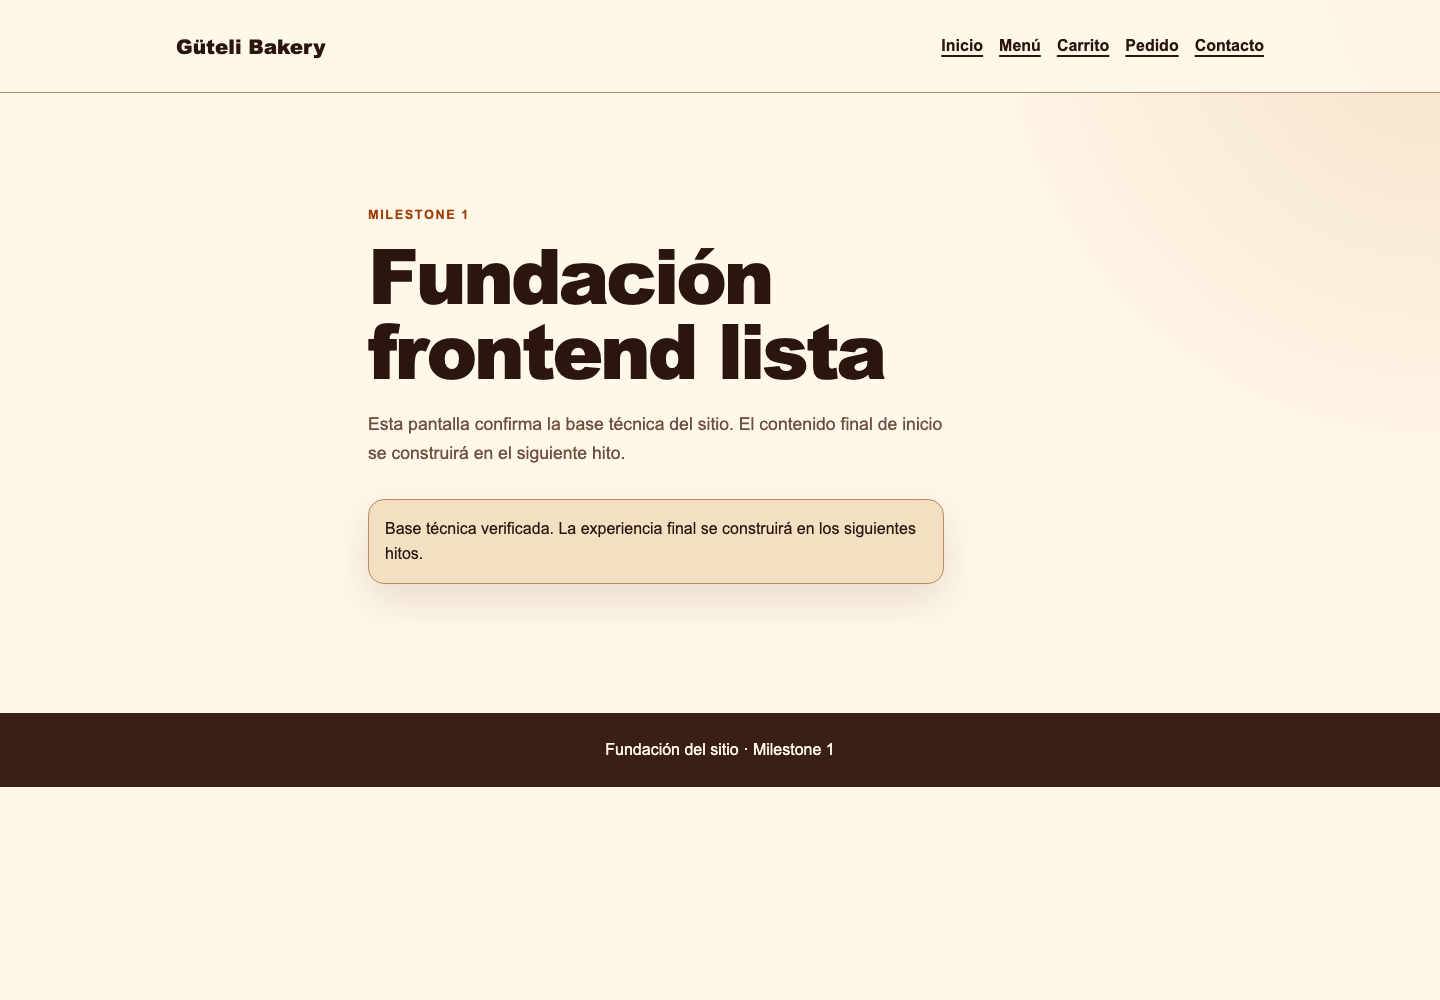
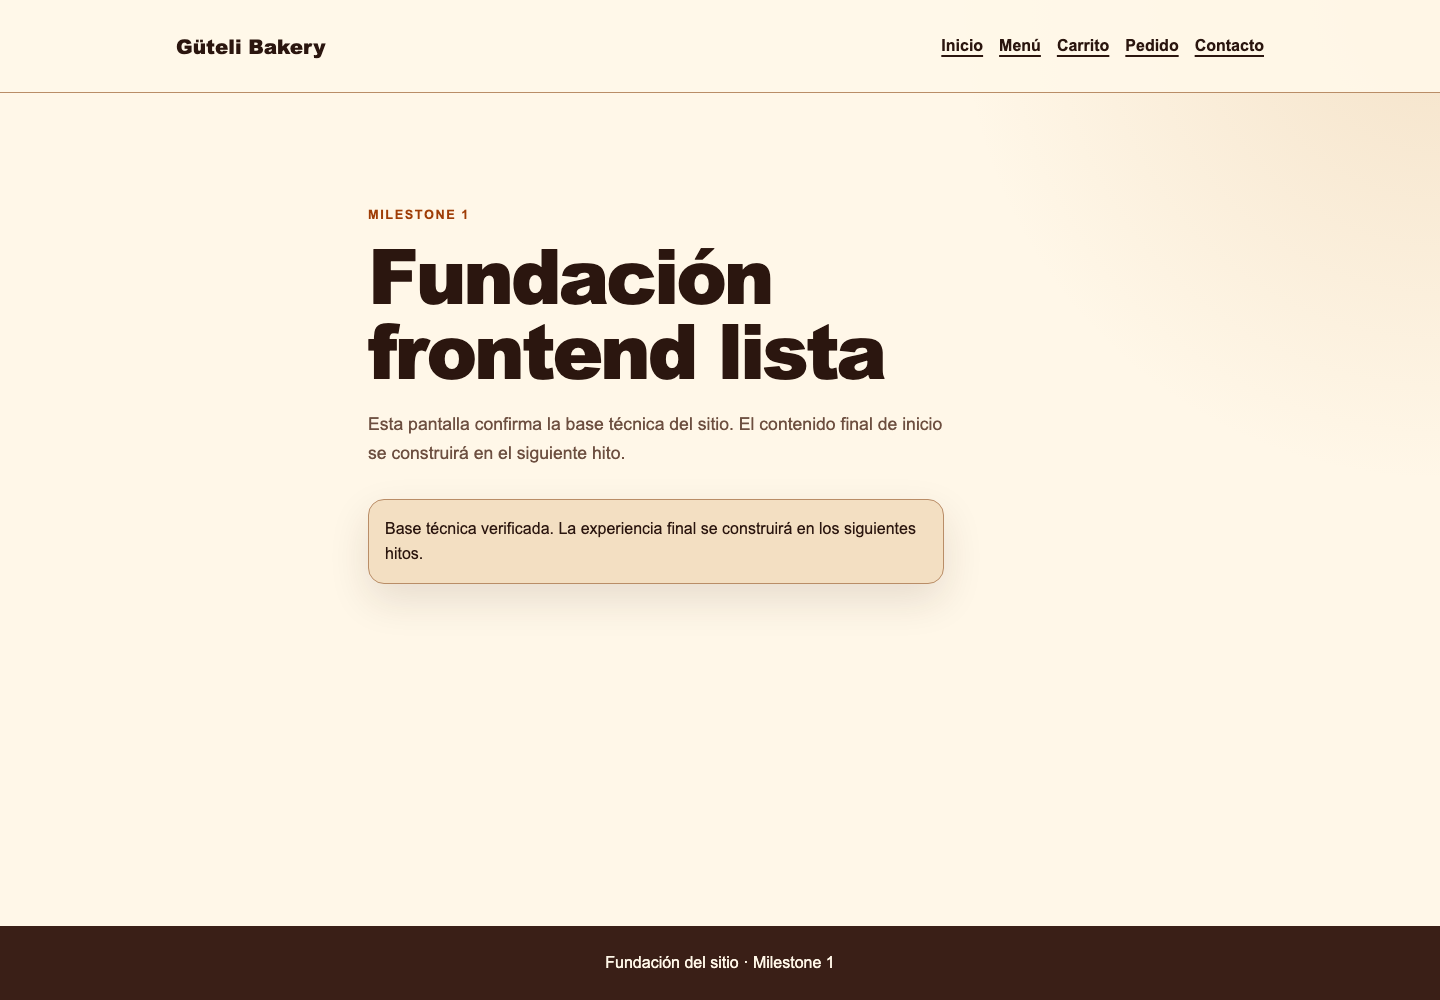
fix: resolve milestone 1 review findings

Changed region(s): [[0.0, 0.899, 1.0, 1.0], [0.0, 0.713, 1.0, 0.806]]

diff --git a/tests/browser/foundation.spec.ts b/tests/browser/foundation.spec.ts
@@ -25,3 +25,43 @@ for (const route of routes) {
     ).toBeVisible();
   });
 }
+
+const viewports = [
+  { name: 'desktop', width: 1440, height: 1000 },
+  { name: 'mobile', width: 390, height: 844 },
+] as const;
+
+for (const viewport of viewports) {
+  test(`the skip link moves focus to main on ${viewport.name}`, async ({
+    page,
+  }) => {
+    await page.setViewportSize(viewport);
+    await page.goto('/');
+
+    await page.keyboard.press('Tab');
+    await expect(
+      page.getByRole('link', { name: 'Saltar al contenido' }),
+    ).toBeFocused();
+    await page.keyboard.press('Enter');
+
+    await expect(page.locator('main#main-content')).toBeFocused();
+  });
+
+  test(`the footer reaches the document bottom on ${viewport.name}`, async ({
+    page,
+  }) => {
+    await page.setViewportSize(viewport);
+    await page.goto('/');
+
+    const footerBottom = await page
+      .locator('footer')
+      .evaluate((footer) =>
+        Math.round(footer.getBoundingClientRect().bottom + window.scrollY),
+      );
+    const documentBottom = await page.evaluate(() =>
+      Math.round(document.documentElement.scrollHeight),
+    );
+
+    expect(footerBottom).toBe(documentBottom);
+  });
+}

diff --git a/src/components/shared/FoundationPage.tsx b/src/components/shared/FoundationPage.tsx
@@ -10,7 +10,7 @@ export function FoundationPage({
   description,
 }: FoundationPageProps) {
   return (
-    <main id="main-content" className="foundation-page">
+    <main id="main-content" className="foundation-page" tabIndex={-1}>
       <p className="eyebrow">{eyebrow}</p>
       <h1>{title}</h1>
       <p className="foundation-copy">{description}</p>

diff --git a/src/app/not-found.tsx b/src/app/not-found.tsx
@@ -2,7 +2,7 @@ import Link from 'next/link';
 
 export default function NotFound() {
   return (
-    <main id="main-content" className="foundation-page">
+    <main id="main-content" className="foundation-page" tabIndex={-1}>
       <p className="eyebrow">Error 404</p>
       <h1>Página no encontrada</h1>
       <p className="foundation-copy">

diff --git a/src/app/globals.css b/src/app/globals.css
@@ -10,6 +10,8 @@ html {
 }
 
 body {
+  display: grid;
+  grid-template-rows: auto 1fr auto;
   min-height: 100vh;
   margin: 0;
   background:

diff --git a/artifacts/reports/test-report.md b/artifacts/reports/test-report.md
@@ -1,20 +1,21 @@
 # Test Report
 
-Status: **Final pre-review gate PASS — 2026-07-19**
+Status: **Post-review fix gate PASS; final re-review pending — 2026-07-19**
 
-| Command                                       | Result                                                                     |
-| --------------------------------------------- | -------------------------------------------------------------------------- |
-| `npm run format:check`                        | PASS; all matched files use Prettier style.                                |
-| `npm run lint`                                | PASS; ESLint completed with `--max-warnings=0`.                            |
-| `npm run typecheck`                           | PASS; `next typegen` generated route types, then `tsc --noEmit` completed. |
-| `npm test`                                    | PASS; 1 Vitest file and 2 tests passed.                                    |
-| `npm run test:e2e`                            | PASS; 5 Chromium Playwright route-shell tests passed.                      |
-| `npm run build`                               | PASS; static export generated the five in-scope routes and `/_not-found`.  |
-| `git diff --check milestone-0-approved..HEAD` | PASS; no whitespace errors.                                                |
-| `git status --short`                          | PASS; clean before this evidence update.                                   |
+| Command                  | Result                                                                                                                                                  |
+| ------------------------ | ------------------------------------------------------------------------------------------------------------------------------------------------------- |
+| Focused Playwright RED   | Expected FAIL; 5 existing tests passed and 4 new regression tests failed: focus inactive at both viewports, footer 787/1000 desktop and 722/844 mobile. |
+| Focused Playwright GREEN | PASS; all 9 tests passed after the minimal main-focus and body-grid fixes.                                                                              |
+| `npm run format:check`   | PASS; all matched files use Prettier style.                                                                                                             |
+| `npm run lint`           | PASS; ESLint completed with `--max-warnings=0`.                                                                                                         |
+| `npm run typecheck`      | PASS; `next typegen` generated route types, then `tsc --noEmit` completed.                                                                              |
+| `npm test`               | PASS; 1 Vitest file and 2 tests passed.                                                                                                                 |
+| `npm run test:e2e`       | PASS; 9 Chromium Playwright tests passed.                                                                                                               |
+| `npm run build`          | PASS; static export generated the five in-scope routes and `/_not-found`.                                                                               |
+| `git diff --check`       | PASS; no whitespace errors in the review-fix worktree diff.                                                                                             |
 
 The browser suite first encountered `listen EPERM` inside the restricted sandbox; the root cause was loopback-port permission, and the unchanged command passed under approved local-server escalation. The `NO_COLOR`/`FORCE_COLOR` messages were environment warnings, not test failures.
 
-These are fresh Task 5 pre-review results. Independent code review remains pending and is not claimed by this report.
+Task 5 verification and the independent whole-branch review occurred. The review identified skip-link focus transfer, stale current-state evidence, and short-route footer placement; the confirmed findings are fixed and locally verified. A final independent re-review remains pending and is not claimed by this report.
 
 Fresh-checkout review: with both ignored `.next` and `tsconfig.tsbuildinfo` absent, the pre-fix `tsc --noEmit` command unexpectedly exited 0 rather than reproducing the predicted missing-route-types failure. Next.js 16.2.10 was verified to support `next typegen`; the portable script now runs `next typegen && tsc --noEmit`, and clean-start verification generated the route types successfully before TypeScript ran.

diff --git a/artifacts/reports/accessibility-report.md b/artifacts/reports/accessibility-report.md
@@ -1,14 +1,16 @@
 # Accessibility Report
 
-Status: **Basic checklist PASS — 2026-07-19**
+Status: **Basic checklist PASS after review fixes — 2026-07-19**
 
-| Check                           | Result                                                                                                                                                                                |
-| ------------------------------- | ------------------------------------------------------------------------------------------------------------------------------------------------------------------------------------- |
-| Language and landmark semantics | PASS: all verified routes expose `lang="es-GT"`, a named `Principal` navigation landmark, one page heading, and `main#main-content`.                                                  |
-| Keyboard and skip link          | PASS: the first Tab on the mobile root route visibly focused `Saltar al contenido` at 12px from the viewport top; Enter set the URL fragment to `#main-content`, whose target exists. |
-| Focus indicator                 | PASS: links use a visible `:focus-visible` outline; the skip link becomes visible on focus.                                                                                           |
-| Text alternatives               | Not applicable: this foundation shell contains no informative raster images.                                                                                                          |
-| Form-control labels             | Not applicable: this foundation shell contains no form controls.                                                                                                                      |
-| Contrast                        | Not measured: no callable axe or Lighthouse checker was verified; this report is not a WCAG conformance claim.                                                                        |
+| Check                           | Result                                                                                                                                                                      |
+| ------------------------------- | --------------------------------------------------------------------------------------------------------------------------------------------------------------------------- |
+| Language and landmark semantics | PASS: all verified routes expose `lang="es-GT"`, a named `Principal` navigation landmark, one page heading, and `main#main-content`.                                        |
+| Keyboard and skip link          | PASS: at 1440×1000 and 390×844, the first Tab focused `Saltar al contenido`; Enter moved DOM focus to `main#main-content` (`document.activeElement.id === "main-content"`). |
+| Focus indicator                 | PASS: links use a visible `:focus-visible` outline; the skip link becomes visible on focus.                                                                                 |
+| Text alternatives               | Not applicable: this foundation shell contains no informative raster images.                                                                                                |
+| Form-control labels             | Not applicable: this foundation shell contains no form controls.                                                                                                            |
+| Contrast                        | Not measured: no callable axe or Lighthouse checker was verified; this report is not a WCAG conformance claim.                                                              |
 
-Direct production Playwright also found no console errors and no horizontal overflow on the five routes at 1440×1000 and 390×844. No high-risk issue was found in this basic scope.
+The independent review found that the prior check only proved fragment navigation, not focus transfer. Playwright regression tests reproduced that failure at desktop and mobile before `tabIndex={-1}` was added to both main landmarks; all four new focus/layout cases then passed.
+
+Direct production Playwright also found no console errors and no horizontal overflow. No high-risk violation remains within this basic checklist scope.

diff --git a/AI/AI-EOS/CAPABILITY_TABLE.md b/AI/AI-EOS/CAPABILITY_TABLE.md
@@ -39,8 +39,9 @@ Availability is session-specific and must be rechecked before use.
 | `superpowers:executing-plans` | Yes | Yes | Select the supported execution workflow | Delegated task execution with review gates. |
 | `superpowers:subagent-driven-development` | Yes | Yes | Execute task work with independent review gates | Milestone tasks used the supported subagent workflow. |
 | `superpowers:test-driven-development` | Yes | Yes | Drive foundation contracts and browser shell | RED and GREEN evidence recorded for the foundation. |
-| `superpowers:verification-before-completion` | Yes | Yes | Require fresh full-suite evidence | Final pre-review gate passed: format, lint, typecheck, unit tests, E2E, build, and Git diff/status checks all passed on 2026-07-19. |
-| `superpowers:requesting-code-review` | Yes | No | Independent specification and quality review | Scheduled for Task 5. |
+| `superpowers:verification-before-completion` | Yes | Yes | Require fresh full-suite evidence | Task 5 pre-review and post-fix gates ran; format, lint, typecheck, unit tests, 9 E2E tests, build, screenshots, and Git checks passed on 2026-07-19. |
+| `superpowers:requesting-code-review` | Yes | Yes | Independent specification and quality review | Whole-branch review completed; confirmed findings were fixed, with final re-review pending. |
+| `superpowers:receiving-code-review` | Yes | Yes | Evaluate and resolve confirmed review findings | Skip-link focus, evidence synchronization, and short-route footer findings were verified and fixed. |
 | `dependency-risk-audit` | Yes | Yes | Inventory direct dependencies, licenses, and registry advisories | One moderate PostCSS advisory remains through `next@16.2.10`; see the build report for scope and mitigation. |
 | `accessibility-basic-check` | Yes | Yes | Perform the basic semantic and keyboard checklist | Route semantics and skip-link behavior recorded in the accessibility report. |
 | `superpowers:systematic-debugging` | Yes | Yes | Investigate unexpected local runtime failures before retrying | Sandbox loopback and Chromium permissions were traced before escalated local verification. |

diff --git a/AI/AI-EOS/CURRENT_TASK.md b/AI/AI-EOS/CURRENT_TASK.md
@@ -4,7 +4,7 @@ Updated: 2026-07-19
 
 ## Objective
 
-Complete Milestone 1's static frontend foundation and portable repository evidence. The five Spanish route shells, formatting, linting, type checks, unit tests, browser tests, static export, screenshots, and reports are complete as of 2026-07-19.
+Complete Milestone 1's final review cycle. Task 5 verification and the independent whole-branch review occurred; the confirmed skip-link focus, evidence synchronization, and footer-placement findings are fixed and verified. Final independent re-review remains pending as of 2026-07-19.
 
 ## Approved product scope
 
@@ -65,5 +65,5 @@ Pretzels use “bolsa de 5” and nuditos use “bolsa de 15.” Other quantity 
 - No runtime dependency references the external vault or an absolute local path.
 - The static application builds into `out/` and its five foundation routes serve locally.
 - The Task 4 repository evidence is complete and committed.
-- The three external Obsidian-vault evidence notes are synchronized and their Phase 2 links are validated.
-- Task 5 remains the gate for final full verification and independent code review.
+- The three external Obsidian-vault evidence notes are synchronized and all 19 Phase 2 notes and 69 wikilinks are validated.
+- Task 5 full verification and independent review occurred; final independent re-review of the fixes remains the gate.

diff --git a/artifacts/README.md b/artifacts/README.md
@@ -12,9 +12,9 @@ This directory stores evidence captured from the actual running application.
 ## Milestone status
 
 - Milestone 0: formally approved on 2026-07-19; governance and artifact structure established.
-- Milestone 1: repository evidence complete on 2026-07-19.
+- Milestone 1: independent whole-branch review completed and confirmed findings fixed on 2026-07-19; final re-review pending.
 - Screenshots: `screenshots/desktop/milestone-1-foundation.png` (1440×1000) and `screenshots/mobile/milestone-1-foundation.png` (390×844), both captured from the running root route and visually inspected.
 - Reports: build, tests, accessibility, performance, visual review, preview, and release-summary are dated evidence of the real local run.
 - Public deployment: not authorized.
 
-The three external Phase 2 Obsidian evidence notes are synchronized. Frontmatter was preserved and all 19 Phase 2 notes and their wikilinks were validated. Task 5 final verification and independent review are the only remaining Milestone 1 gate.
+The three external Phase 2 Obsidian evidence notes are synchronized. Frontmatter was preserved and all 19 Phase 2 notes and 69 wikilinks were validated. Task 5 verification and independent review occurred; the review findings are fixed, and final independent re-review is the remaining Milestone 1 gate.

diff --git a/artifacts/release/release-summary.md b/artifacts/release/release-summary.md
@@ -1,7 +1,7 @@
 # Release Summary
 
-Status: **Final pre-review verification complete — 2026-07-19**
+Status: **Review findings fixed and verified; final re-review pending — 2026-07-19**
 
-This is not a public release. The static foundation shell, portable commands, test evidence, build output, real desktop/mobile screenshots, and synchronized external Obsidian evidence are complete for Task 4. Task 5's fresh pre-review format, lint, typecheck, unit, browser, build, Git, image, scope, and dependency checks are recorded in the reports.
+This is not a public release. Task 5 verification and an independent whole-branch review occurred. The confirmed skip-link focus, current-state synchronization, and short-route footer findings were fixed with desktop/mobile Playwright regression coverage and refreshed real screenshots.
 
-Independent code review has not yet been dispatched and remains pending. Public deployment remains separately gated.
+The post-fix format, lint, typecheck, unit, browser, build, Git, image, scope, and vault checks are recorded in the reports. Final independent re-review remains pending and is not claimed. Public deployment remains separately gated, and the PostCSS advisory remains open.

diff --git a/artifacts/reports/build-report.md b/artifacts/reports/build-report.md
@@ -1,12 +1,14 @@
 # Build Report
 
-Status: **Final pre-review build PASS — 2026-07-19**
+Status: **Post-review fix build PASS; final re-review pending — 2026-07-19**
 
 Command: `npm run build`
 
-Result: a fresh Next.js 16.2.10 optimized static export exited 0. It generated `/`, `/_not-found`, `/cart`, `/contact`, `/menu`, and `/order` into `out/`.
+Result: a fresh Next.js 16.2.10 optimized static export exited 0 after the review fixes. It generated `/`, `/_not-found`, `/cart`, `/contact`, `/menu`, and `/order` into `out/`.
 
 Static-start check: `npm run start` served `out/` locally at `http://127.0.0.1:3000`; direct Playwright received successful responses for all five in-scope routes.
+
+Post-review runtime recapture: direct installed Playwright received HTTP 200 for the root route at 1440×1000 and 390×844, found zero console errors and no horizontal overflow, transferred skip-link focus to `main-content`, and measured the footer at the document bottom in both viewports.
 
 Development-start check: `npm run dev -- --hostname 127.0.0.1` reported `http://127.0.0.1:3000`, reached `Ready in 448ms`, returned HTTP 200 for `HEAD /`, and stopped cleanly.
 

diff --git a/artifacts/reports/visual-review.md b/artifacts/reports/visual-review.md
@@ -1,10 +1,10 @@
 # Visual Review
 
-Status: **PASS — 2026-07-19**
+Status: **PASS after review fix — 2026-07-19**
 
 Reviewed actual screenshots from the running root route:
 
 - Desktop: `screenshots/desktop/milestone-1-foundation.png`, valid PNG at 1440×1000.
 - Mobile: `screenshots/mobile/milestone-1-foundation.png`, valid PNG at 390×844.
 
-Both render the Spanish foundation shell with a readable hierarchy, wrapped mobile navigation, intact status panel, and visible footer. Direct Playwright found no horizontal overflow across `/`, `/menu/`, `/cart/`, `/order/`, and `/contact/` at both captured viewport sizes. The screenshots are real runtime evidence, not generated mockups.
+Both refreshed images render the Spanish foundation shell with a readable hierarchy, wrapped mobile navigation, intact status panel, and a footer that reaches the bottom edge without blank page space beneath it. Direct production Playwright measured footer/document bottoms of 1000/1000 on desktop and 844/844 on mobile, with no console errors or horizontal overflow. Both PNGs were visually inspected with `view_image`; they are real runtime evidence, not generated mockups.
